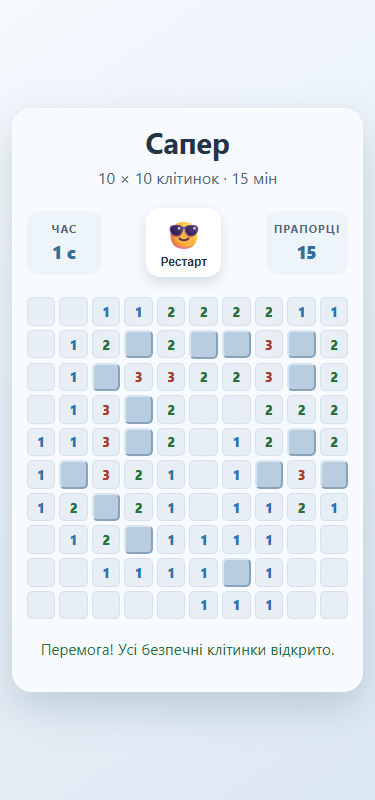
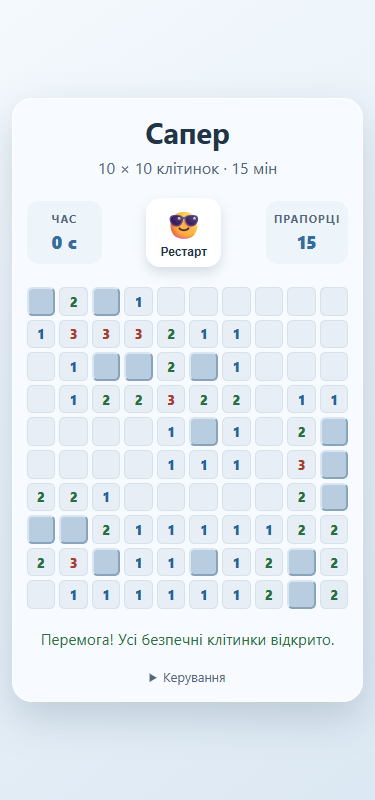
lab2: address remaining review comments

diff --git a/KvastArtem/index.html b/KvastArtem/index.html
@@ -23,7 +23,7 @@
           <span class="restart-label">Рестарт</span>
         </button>
 
-        <div class="status-panel" aria-live="polite" aria-atomic="true">
+        <div class="status-panel" role="status" aria-live="polite" aria-atomic="true">
           <span class="status-label">Прапорці</span>
           <span class="flag-counter">15</span>
         </div>
@@ -32,10 +32,13 @@
       <section class="board" aria-label="Ігрове поле" aria-describedby="controls-help"></section>
 
       <p class="game-message" role="status" aria-live="polite"></p>
-      <p id="controls-help" class="controls-help">
-        Лівий клік — відкрити. Правий клік — прапорець.<br />
-        Клавіатура: ↑ ↓ ← → — вибір клітинки, Enter або пробіл — відкрити, F — прапорець.
-      </p>
+      <details class="controls-help">
+        <summary>Керування</summary>
+        <p id="controls-help">
+          Лівий клац — відкрити. Правий клац — прапорець.<br />
+          Клавіатура: ↑ ↓ ← → — вибір клітинки, Enter або пробіл — відкрити, F — прапорець.
+        </p>
+      </details>
       <noscript>Для гри потрібно увімкнути JavaScript у браузері.</noscript>
     </main>
   </body>

diff --git a/KvastArtem/script.js b/KvastArtem/script.js
@@ -348,14 +348,18 @@ function setActiveCell(button) {
 function handleBoardKeydown(event) {
   const button = event.target.closest('.cell');
 
-  if (!button || gameState.status !== GAME_STATUS.PROCESS) {
+  if (!button || gameState.status !== GAME_STATUS.PROCESS ||
+      event.ctrlKey || event.metaKey || event.altKey) {
 
     return;
   }
 
   if (event.code === 'KeyF') {
     event.preventDefault();
-    handleCellAction(event, toggleFlag);
+
+    if (!event.repeat) {
+      handleCellAction(event, toggleFlag);
+    }
 
     return;
   }
@@ -394,6 +398,10 @@ elements.board.addEventListener('contextmenu', (event) => {
 elements.board.addEventListener('keydown', handleBoardKeydown);
 elements.board.addEventListener('focusin', (event) => setActiveCell(event.target));
 elements.restart.addEventListener('click', restartGame);
-window.addEventListener('pagehide', stopTimer);
+window.addEventListener('pagehide', (event) => {
+  if (!event.persisted) {
+    stopTimer();
+  }
+});
 
 restartGame();

diff --git a/KvastArtem/styles.css b/KvastArtem/styles.css
@@ -191,7 +191,7 @@ button:focus-visible {
   background: var(--danger-color);
 }
 
-.cell.number-one { color: #2d72b0; }
+.cell.number-one { color: #236498; }
 .cell.number-two { color: #28713e; }
 .cell.number-three { color: #a83f35; }
 .cell.number-four { color: #6b48a0; }
@@ -234,10 +234,10 @@ button:focus-visible {
   text-align: center;
 }
 
-@media (width <= 600px), (hover: none) and (pointer: coarse) {
-  .controls-help {
-    display: none;
-  }
+.controls-help summary {
+  width: fit-content;
+  margin-inline: auto;
+  cursor: pointer;
 }
 
 @media (width <= 420px) {

diff --git a/KvastArtem/README.md b/KvastArtem/README.md
@@ -19,7 +19,9 @@
 - Кнопка «Рестарт» скидає поле, прапорці й таймер без перезавантаження.
 - Клавіатура: стрілки ↑ ↓ ← → для вибору клітинки, Enter/пробіл для відкриття, F для прапорця.
 - Поле має одну зупинку Tab: далі клітинки обираються стрілками; на краях фокус не переходить в інший рядок.
-- На вузьких екранах і сенсорних пристроях підказка про мишу та клавіатуру прихована.
+- Довідка «Керування» початково згорнута й доступна на будь-якій ширині.
+- Утримання F змінює прапорець один раз; Ctrl+F, Command+F та Alt+F зберігають поведінку браузера.
+- Після повернення через кеш кнопкою «Назад» активний таймер продовжує роботу; новий або завершений раунд не запускається.
 
 Оформлення продовжує інтерфейс з лабораторної №1. Її вихідна статична версія
 зберігається в історії репозиторію (PR #24).
@@ -36,11 +38,12 @@ node KvastArtem/tests/logic.test.cjs
 рекурсію, прапорці, перемогу, поразку, таймер і перезапуск. Сторонні пакети не потрібні.
 Тести виконують логічний шар у середовищі `node:vm` із контрольованими таймерами.
 
-Окремо проведено 13 автоматизованих браузерних перевірок у Microsoft Edge:
+Окремо проведено 20 автоматизованих браузерних перевірок у Microsoft Edge:
 рендеринг DOM, правий клік і блокування контекстного меню, клавішу F,
 навігацію чотирма стрілками та межі поля, одну зупинку Tab, відкриття
 клавішами Enter/пробіл, рекурсію та таймер, поразку, рестарт, перемогу,
-ширину 375 px і приховування підказки для ПК на сенсорному пристрої.
+ширину 375 px, згорнуту довідку на сенсорному пристрої, модифіковану та
+утримувану F, контраст цифри «1» і три сценарії повернення через кеш браузера.
 Реальні знімки перевірки розміщені у `screenshots/`.
 
 ## Використання Codex
